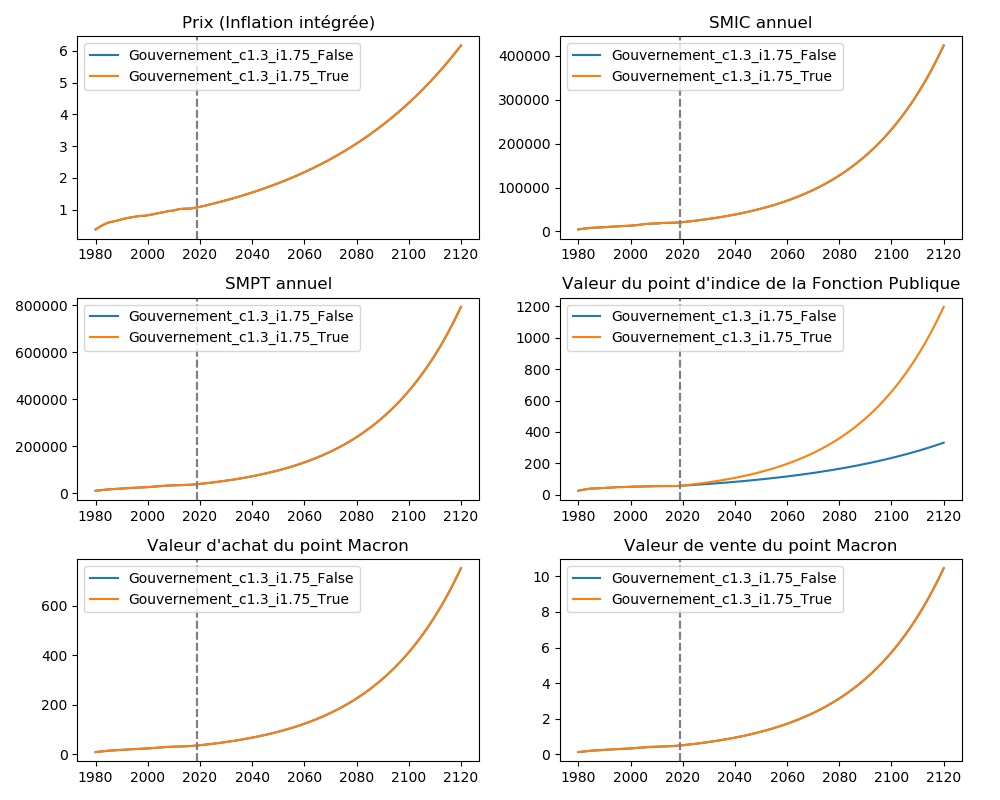
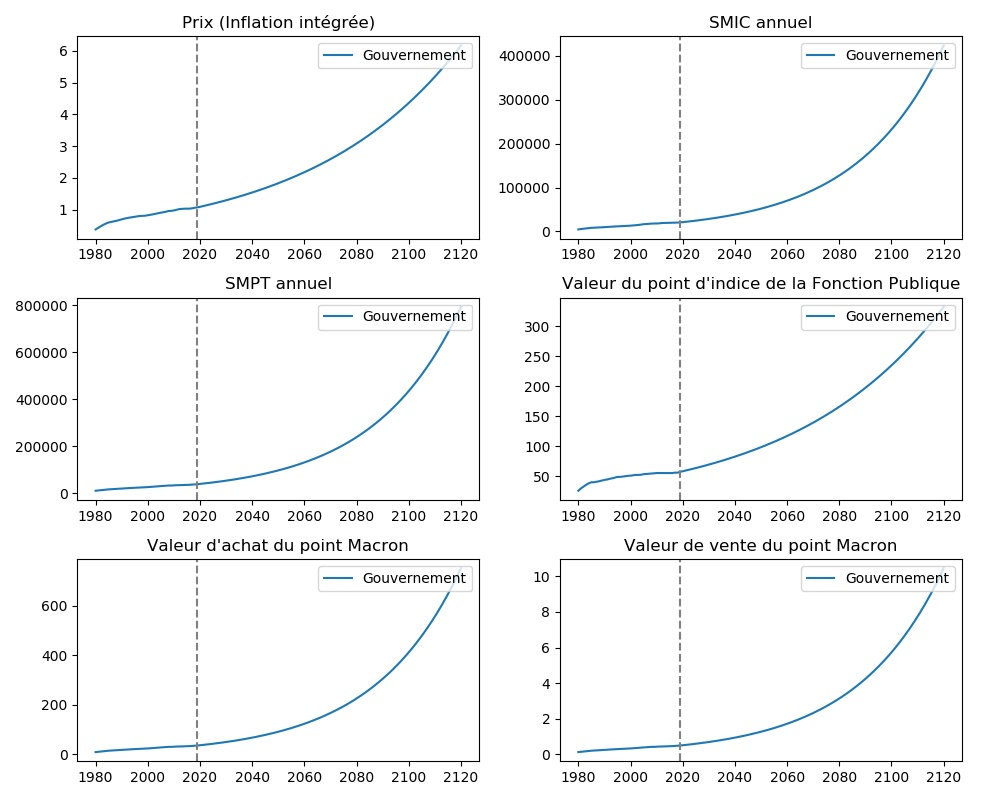
pour article mdpt

diff --git a/carriere.py b/carriere.py
@@ -120,7 +120,7 @@ class modele_gouv(modele_abs):
     def __init__(self, deb, fin, croissance=1.3, indfp_index_sur_smpt=False):
 
         inflation=1.0175
-        self.nom="Gouvernement_c%.1f_i%.2f_%s"%(croissance, (inflation-1)*100, str(indfp_index_sur_smpt))
+        self.nom="Gouvernement"#_c%.1f_i%.2f_%s"%(croissance, (inflation-1)*100, str(indfp_index_sur_smpt))
         present=ANNEE_REF
         super(modele_gouv,self).__init__(deb,present,fin)
 
@@ -392,14 +392,14 @@ def plot_modeles(lm,r):
         for m in lm:
             var = [m.prix, m.smic, m.smpt, m.indfp, m.achat_pt, m.vente_pt][i]
             plot_modele(m, var, dec(label),r)
-        legend(loc='best')
+        legend(loc='upper right')
     tight_layout()
 
 
 def plot_comparaison_modeles(a,b):
 
     figure(figsize=(10,8))
-    plot_modeles([m1,m2],[a,b])
+    plot_modeles([m1],[a,b])
     if SAVE:
         mysavefig("gouv_vs_dest.jpg")
         close('all')
@@ -475,9 +475,13 @@ def plot_evolution_carriere_corr(ax, m, id_metier, prime, corr, focus, annees, l
     plot_carriere_corr(ax, m, c, corr, div, plot_retraite, "green", dec("Salaire (déb:%d"%focus)+")")
     
     ylabel(labely)
-    legend(loc="best")
+    legend(loc="upper right")
 
-    text(0.45, 0.95 , "Projection "+m.nom, ha='left', va='top', transform=ax.transAxes, bbox=dict(boxstyle='round', facecolor='wheat', alpha=0.5))
+    y1,y2 = ax.get_ylim()
+    y = y1+(y2-y1)*0.98
+    text(ANNEE_REF+2, y, dec("Projection "+m.nom), ha='left', va='top', bbox=dict(boxstyle='round', facecolor='wheat', alpha=0.5))
+    if annees[0]<ANNEE_REF:
+        text(ANNEE_REF-2, y, dec("Données réelles"), ha='right', va='top', bbox=dict(boxstyle='round', facecolor='wheat', alpha=0.5))
     
     axvline(ANNEE_REF, color="grey", linestyle="dashed")
     if id_metier=="Privé":
@@ -558,14 +562,16 @@ def simu1():
     print "Génération d'animations gif sur l'évolution de carrières dans le public"
 
     dir_images = "./fig/salaires_retraites/"
-    genere_anim( [m1,m2], cas, range(1980,2041,5), 1 )
+    genere_anim( [m1], cas, range(1980,2041,5), 1 )
 
     dir_images = "./fig/salaires/"
-    genere_anim( [m1,m2], cas, range(2020, 2061, 5), 0 )
+    genere_anim( [m1], cas, range(2020, 2061, 5), 0 )
     
 
 def debug0():
 
+    print "Details carrière et retraite pour deux professions"
+    
     c=carriere_public(m1,22,2012,"ProfEcoles",0.08)
     c.affiche_carriere()
 
@@ -573,6 +579,30 @@ def debug0():
     c.affiche_carriere()
 
 
+def pour_article():
+
+    dir_images="./articles/"
+
+    id_metier = "ProfEcoles"
+    prime = 0.08
+
+    m=m1
+    
+    fig=figure()
+    xlim( (2020,2070) )
+    ax = fig.add_subplot(111)
+    plot_evolution_carriere_corr(ax, m, id_metier, prime, m.prix, 2020, [2020], "Euros constants (2019)", 12)
+    if SAVE:
+        savefig(dir_images+"salaireEC.png")
+    
+    fig=figure()
+    xlim( (2020,2070) )
+    ax = fig.add_subplot(111)
+    plot_evolution_carriere_corr(ax, m, id_metier, prime, m.smpt, 2020, [2020], "Ratio revenu/SMPT", 1)
+    if SAVE:
+        savefig(dir_images+"salaireRel.png")
+    
+    
 ####
 
 SAVE = True   # si False: ne génère pas les fichiers images/animations
@@ -583,13 +613,13 @@ SAVE = True   # si False: ne génère pas les fichiers images/animations
 debut, fin = 1980, 2120
 
 m1 = modele_gouv(debut,fin,1.3,False)
-m2 = modele_gouv(debut,fin,1.3,True)
+#m2 = modele_gouv(debut,fin,1.3,True)
 #m3 = modele_destinie(debut,fin)
 
 
 # Carrières considérées
 
-cas = [ ("ProfEcoles",0.08), ("ProfCertifie",0.09), ("PR2",0.1), ("PR1",0.1), ("ATSEM1",0.1), ("ATSEM2",0.1), ("MCF",0.1), ("MCFHC",0.1), ("CR",0.1), ("DR1",0.1), ("DR2",0.1), ("Infirmier",0.23), ("AideSoignant",0.19) ]
+cas = [ ("ProfEcoles",0.08) ]#, ("ProfCertifie",0.09), ("PR2",0.1), ("PR1",0.1), ("ATSEM1",0.1), ("ATSEM2",0.1), ("MCF",0.1), ("MCFHC",0.1), ("CR",0.1), ("DR1",0.1), ("DR2",0.1), ("Infirmier",0.23), ("AideSoignant",0.19) ]
 
 
 ### Génération d'un exemple
@@ -606,6 +636,8 @@ simu0()
 simu1()
 
 ###
+
+pour_article()
 
 if not SAVE:
     show()
